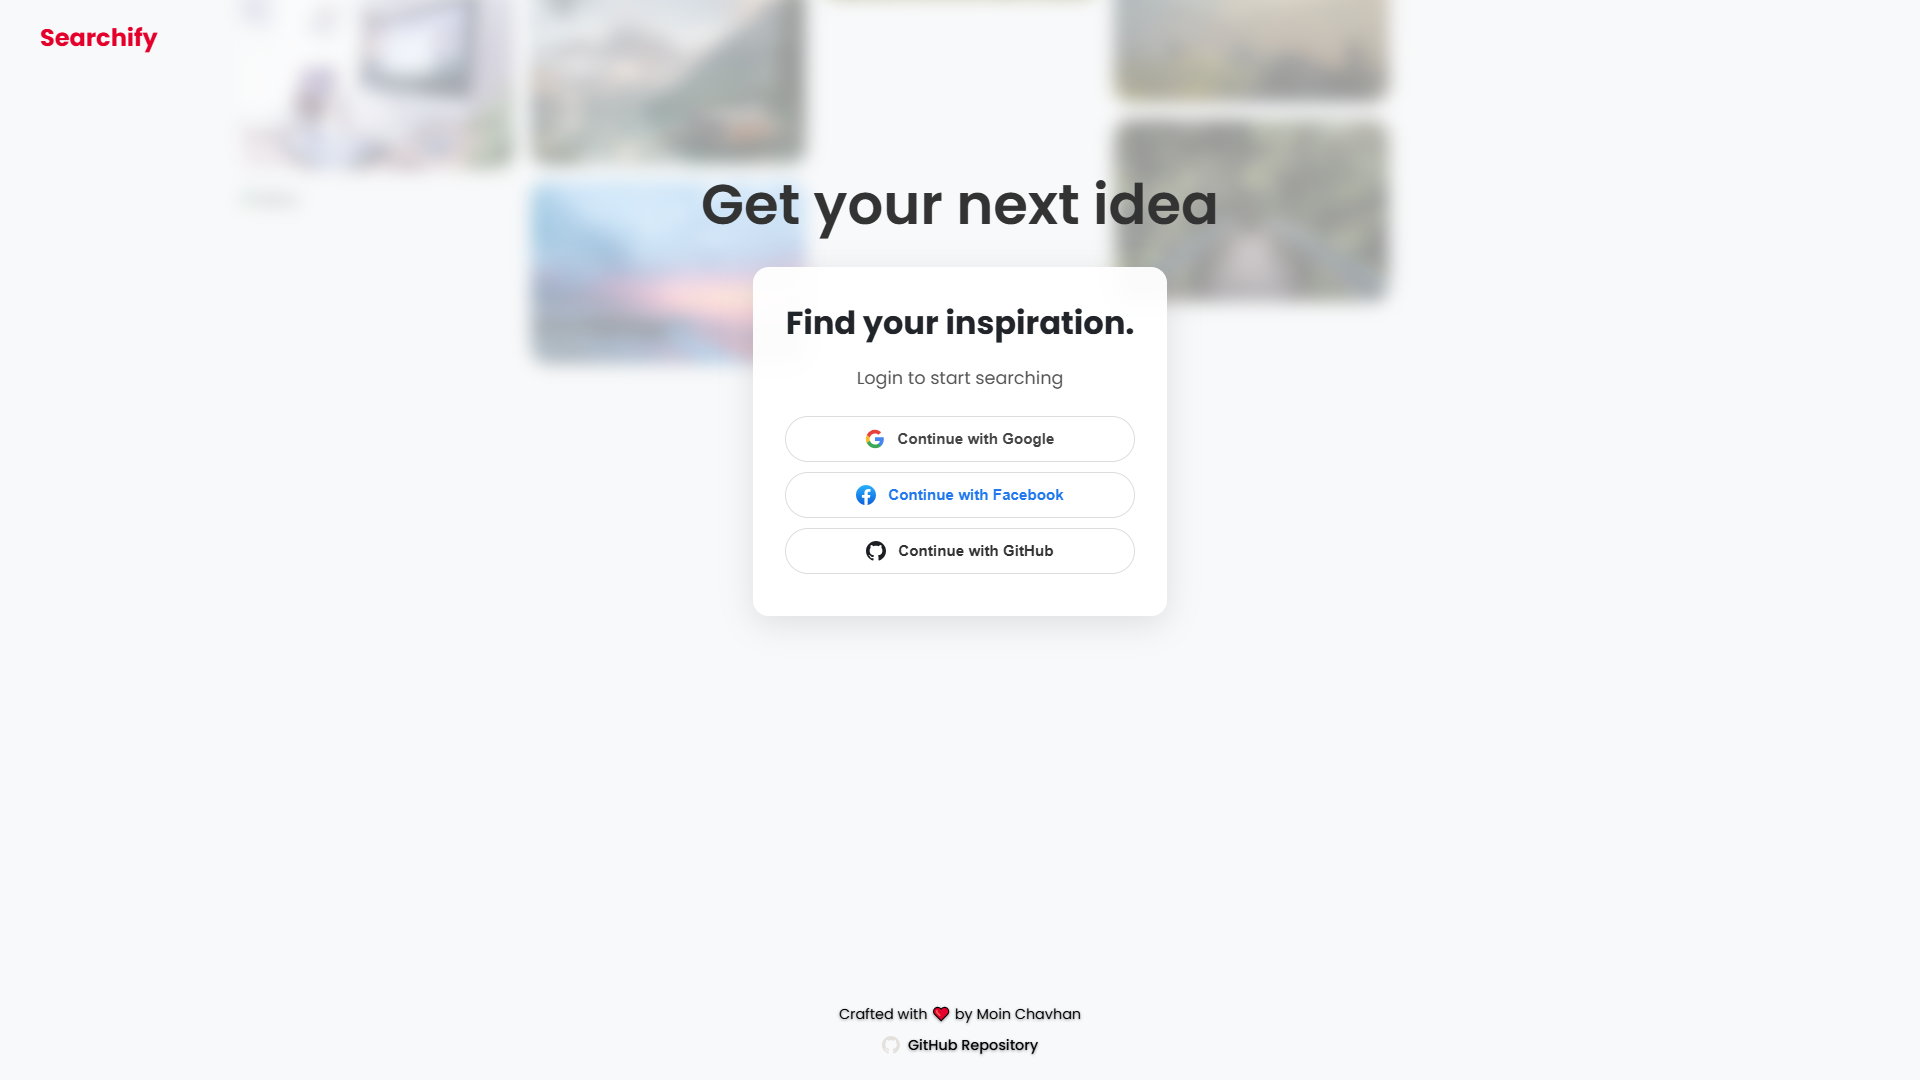
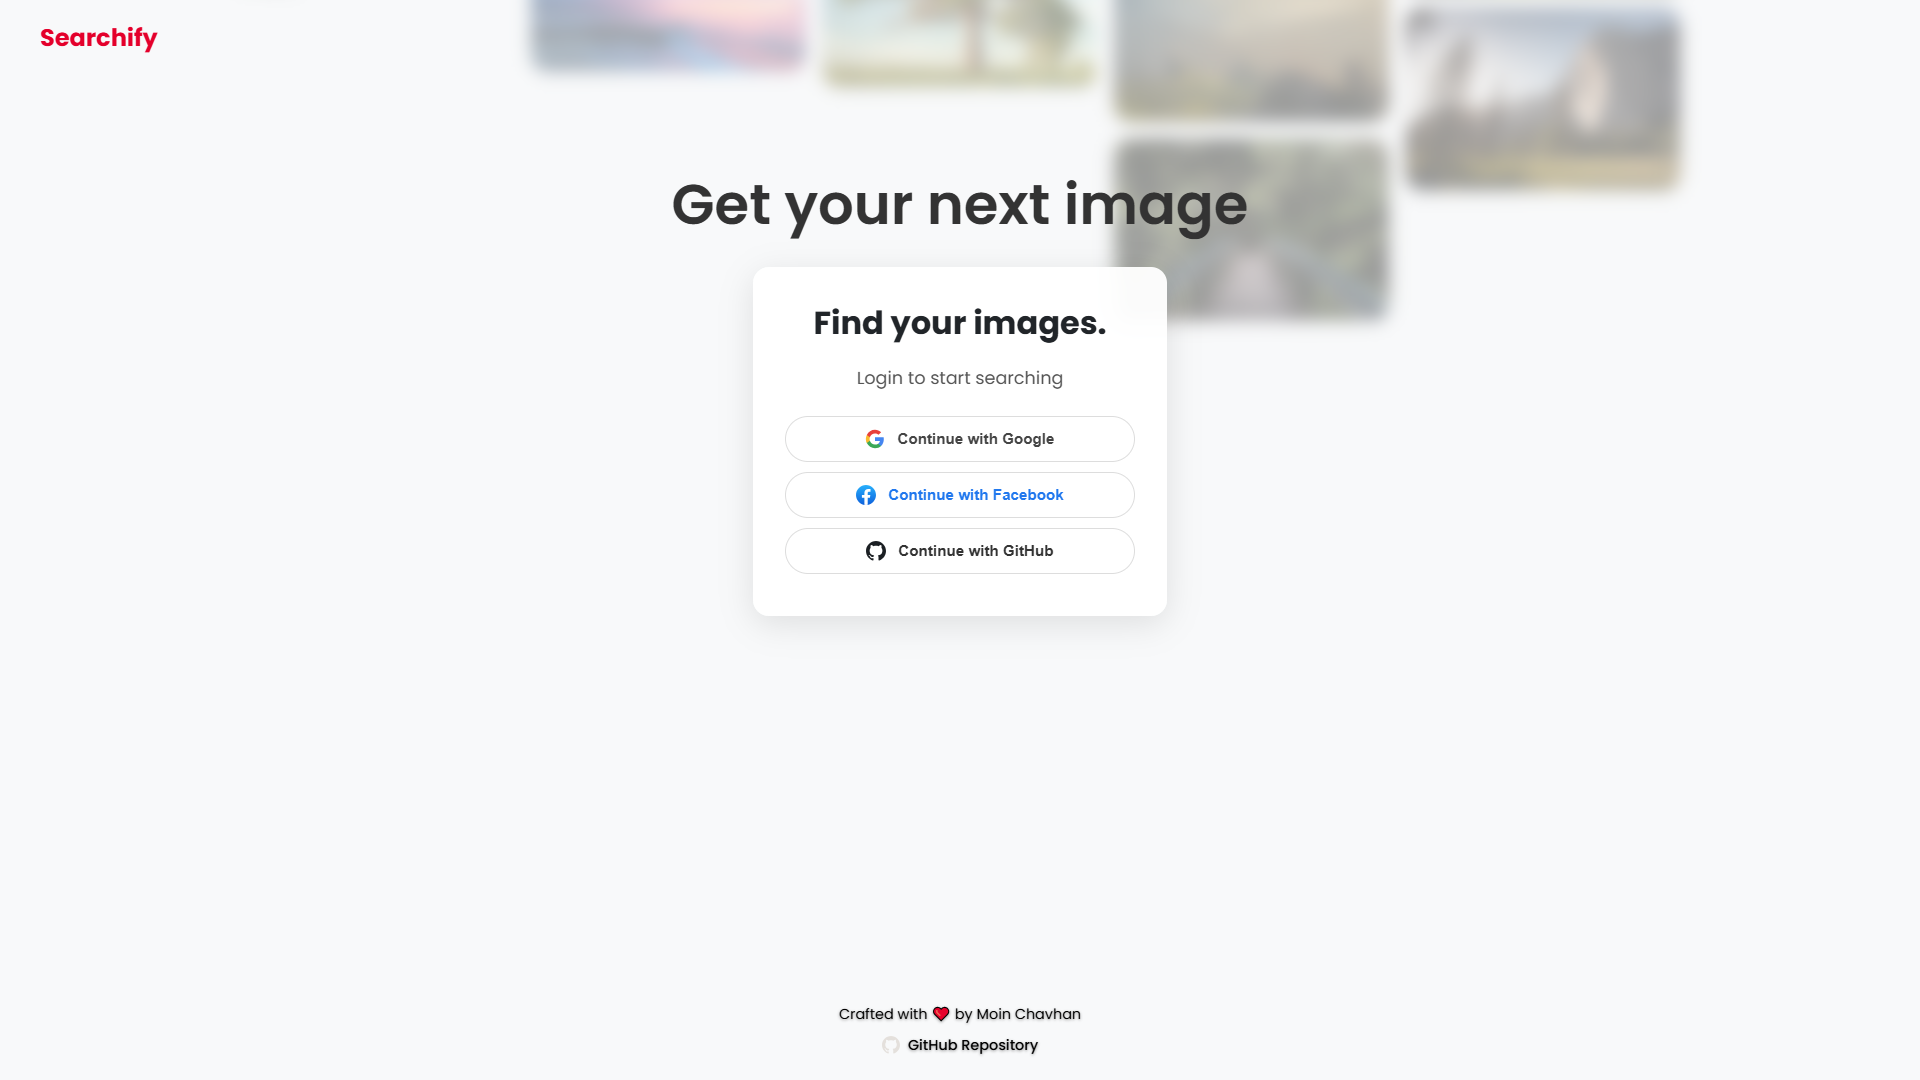
Landing Page Updated

Changed region(s): [[0.125, 0.0, 0.875, 0.3667]]

diff --git a/client/src/pages/LandingPage.jsx b/client/src/pages/LandingPage.jsx
@@ -10,7 +10,7 @@ export default function LandingPage({ onLogin }) {
       </header>
 
       <div className="landing-hero">
-        <h1>Get your next idea</h1>
+        <h1>Get your next image</h1>
       </div>
 
       <div className="masonry-background">
@@ -42,7 +42,7 @@ export default function LandingPage({ onLogin }) {
       </div>
 
       <div className="landing-center-box">
-        <h2>Find your inspiration.</h2>
+        <h2>Find your images.</h2>
         <p>Login to start searching</p>
         <div className="auth-buttons">
           <button
